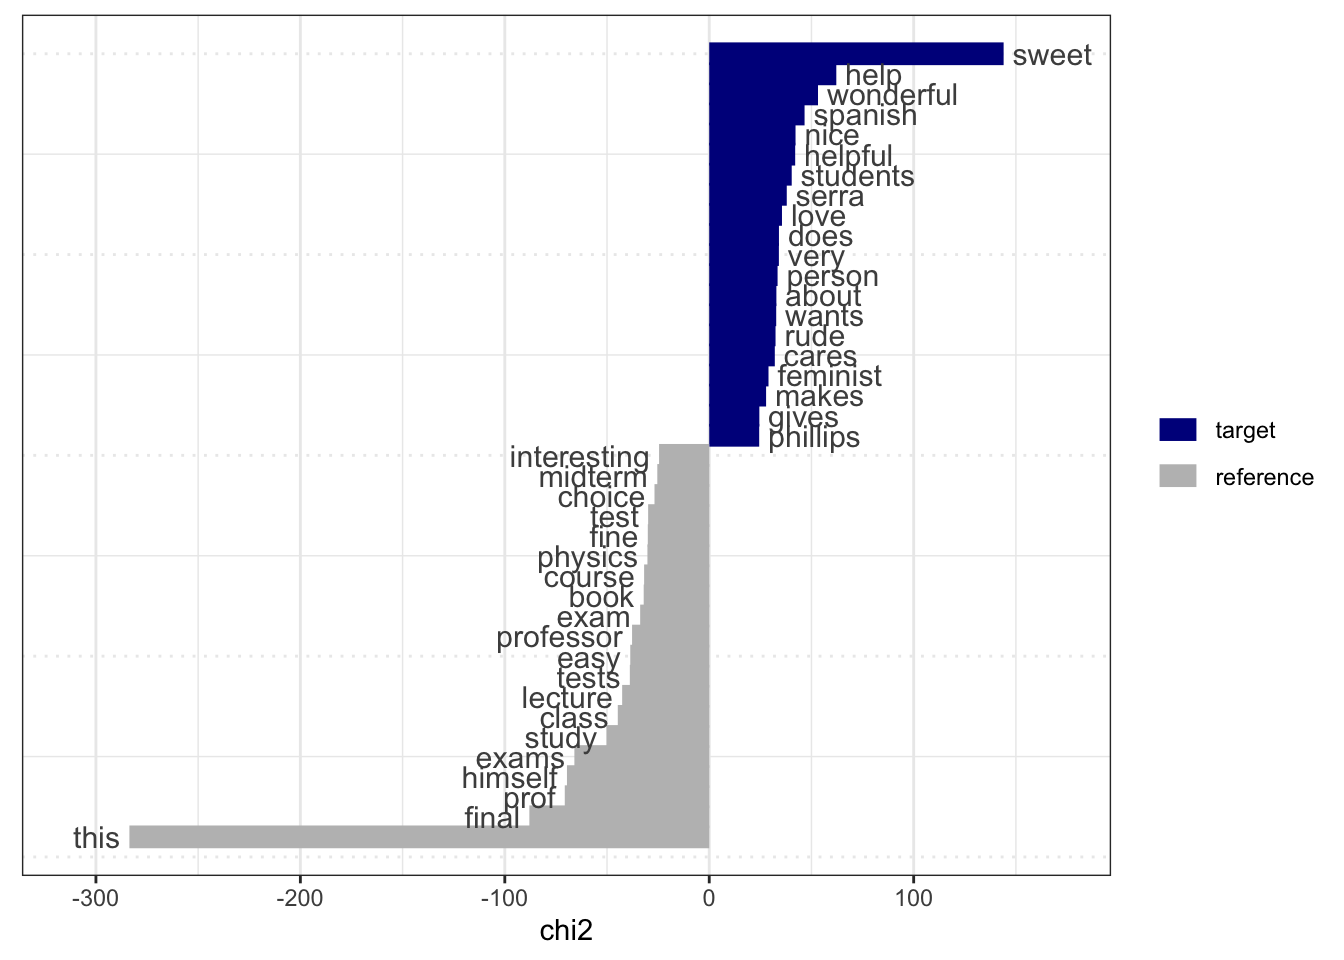
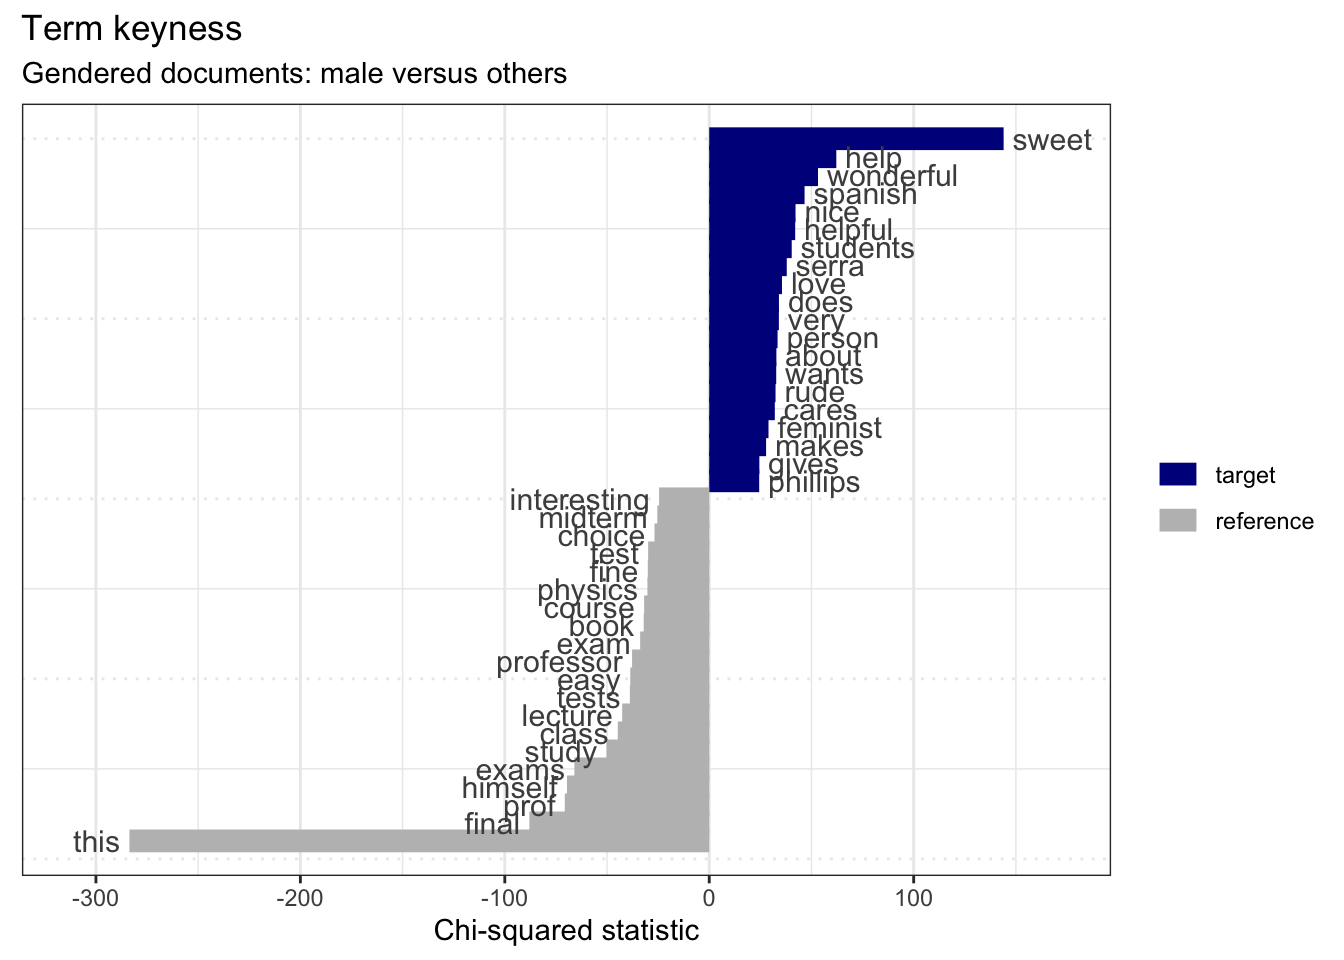
Fixed plotting typo on keyness for gendered-terms

diff --git a/docs/articles/recipe_11.html b/docs/articles/recipe_11.html
@@ -650,27 +650,14 @@ Figure 4: Relationship between course rating and gender.
 <span class="va">keyness_target_male</span> <span class="op"><a href="../reference/%&gt;%.html">%&gt;%</a></span> 
   <span class="fu"><a href="https://dplyr.tidyverse.org/reference/filter.html">filter</a></span><span class="op">(</span><span class="op">!</span><span class="va">feature</span> <span class="op"><a href="https://rdrr.io/r/base/match.html">%in%</a></span> <span class="va">male</span><span class="op">)</span> <span class="op"><a href="../reference/%&gt;%.html">%&gt;%</a></span> <span class="co"># remove male-gendered terms</span>
   <span class="fu"><a href="https://dplyr.tidyverse.org/reference/filter.html">filter</a></span><span class="op">(</span><span class="fu"><a href="https://rdrr.io/r/base/nchar.html">nchar</a></span><span class="op">(</span><span class="va">feature</span><span class="op">)</span> <span class="op">&gt;</span> <span class="fl">3</span><span class="op">)</span> <span class="op"><a href="../reference/%&gt;%.html">%&gt;%</a></span> <span class="co"># remove short terms (&lt; 3 characters)</span>
-  <span class="fu"><a href="https://rdrr.io/pkg/quanteda.textplots/man/textplot_keyness.html">textplot_keyness</a></span><span class="op">(</span><span class="op">)</span> <span class="op"><a href="../reference/%&gt;%.html">%&gt;%</a></span>  <span class="co"># plot the indicative features.</span>
+  <span class="fu"><a href="https://rdrr.io/pkg/quanteda.textplots/man/textplot_keyness.html">textplot_keyness</a></span><span class="op">(</span><span class="op">)</span> <span class="op">+</span>  <span class="co"># plot the indicative features.</span>
   <span class="fu"><a href="https://ggplot2.tidyverse.org/reference/labs.html">labs</a></span><span class="op">(</span>x <span class="op">=</span> <span class="st">"Chi-squared statistic"</span>,
       title <span class="op">=</span> <span class="st">"Term keyness"</span>, 
        subtitle <span class="op">=</span> <span class="st">"Gendered documents: male versus others"</span><span class="op">)</span> <span class="co"># labels</span></code></pre></div>
-<pre><code>## [[1]]</code></pre>
-<p><img src="recipe_11_files/figure-html/rmp-keyness-male-1.png" width="85%" style="display: block; margin: auto;"></p>
-<pre><code>## 
-## $x
-## [1] "Chi-squared statistic"
-## 
-## $title
-## [1] "Term keyness"
-## 
-## $subtitle
-## [1] "Gendered documents: male versus others"
-## 
-## attr(,"class")
-## [1] "labels"</code></pre>
-<p>Here we see that male gendered documents have a series of indicative features that are particularly telling: ‘funny,’ ‘jokes,’ ‘hilarious,’ ‘cool,’ ‘smart,’ ‘nice,’ and ‘cares.’ The bulk of these point to documents with male-oriented gender terms as also noting the jovial personality of the instructor. There’s not much we can make out of the ‘reference’ terms as they are a mixed-gendered bag of female-gendered terms and documents with no gendered terms.</p>
+<p><img src="recipe_11_files/figure-html/rmp-keyness-male-1.png" width="85%" style="display: block; margin: auto;">
+Here we see that male gendered documents have a series of indicative features that are particularly telling: ‘funny,’ ‘jokes,’ ‘hilarious,’ ‘cool,’ ‘smart,’ ‘nice,’ and ‘cares.’ The bulk of these point to documents with male-oriented gender terms as also noting the jovial personality of the instructor. There’s not much we can make out of the ‘reference’ terms as they are a mixed-gendered bag of female-gendered terms and documents with no gendered terms.</p>
 <p>Let’s now run the same analysis, but this time on female-gendered terms.</p>
-<div class="sourceCode" id="cb36"><pre class="downlit sourceCode r">
+<div class="sourceCode" id="cb34"><pre class="downlit sourceCode r">
 <code class="sourceCode R"><span class="va">rmp_tokens_female_reference</span> <span class="op">&lt;-</span> 
   <span class="va">rmp_tokens</span> <span class="op"><a href="../reference/%&gt;%.html">%&gt;%</a></span> 
   <span class="fu"><a href="https://quanteda.io/reference/tokens_select.html">tokens_remove</a></span><span class="op">(</span>pattern <span class="op">=</span> <span class="va">female</span>, window <span class="op">=</span> <span class="fl">10</span><span class="op">)</span> <span class="op"><a href="../reference/%&gt;%.html">%&gt;%</a></span>  <span class="co"># remove female-gendered terms</span>
@@ -689,25 +676,12 @@ Figure 4: Relationship between course rating and gender.
 <span class="va">keyness_target_female</span> <span class="op"><a href="../reference/%&gt;%.html">%&gt;%</a></span> 
   <span class="fu"><a href="https://dplyr.tidyverse.org/reference/filter.html">filter</a></span><span class="op">(</span><span class="op">!</span><span class="va">feature</span> <span class="op"><a href="https://rdrr.io/r/base/match.html">%in%</a></span> <span class="va">female</span><span class="op">)</span> <span class="op"><a href="../reference/%&gt;%.html">%&gt;%</a></span> <span class="co"># remove female-gendered terms</span>
   <span class="fu"><a href="https://dplyr.tidyverse.org/reference/filter.html">filter</a></span><span class="op">(</span><span class="fu"><a href="https://rdrr.io/r/base/nchar.html">nchar</a></span><span class="op">(</span><span class="va">feature</span><span class="op">)</span> <span class="op">&gt;</span> <span class="fl">3</span><span class="op">)</span> <span class="op"><a href="../reference/%&gt;%.html">%&gt;%</a></span> <span class="co"># remove short terms (&lt; 3 characters)</span>
-  <span class="fu"><a href="https://rdrr.io/pkg/quanteda.textplots/man/textplot_keyness.html">textplot_keyness</a></span><span class="op">(</span><span class="op">)</span> <span class="op"><a href="../reference/%&gt;%.html">%&gt;%</a></span> <span class="co"># plot the indicative features.</span>
+  <span class="fu"><a href="https://rdrr.io/pkg/quanteda.textplots/man/textplot_keyness.html">textplot_keyness</a></span><span class="op">(</span><span class="op">)</span> <span class="op">+</span> <span class="co"># plot the indicative features.</span>
   <span class="fu"><a href="https://ggplot2.tidyverse.org/reference/labs.html">labs</a></span><span class="op">(</span>x <span class="op">=</span> <span class="st">"Chi-squared statistic"</span>,
       title <span class="op">=</span> <span class="st">"Term keyness"</span>, 
        subtitle <span class="op">=</span> <span class="st">"Gendered documents: male versus others"</span><span class="op">)</span> <span class="co"># labels</span></code></pre></div>
-<pre><code>## [[1]]</code></pre>
-<p><img src="recipe_11_files/figure-html/rmp-keyness-female-1.png" width="85%" style="display: block; margin: auto;"></p>
-<pre><code>## 
-## $x
-## [1] "Chi-squared statistic"
-## 
-## $title
-## [1] "Term keyness"
-## 
-## $subtitle
-## [1] "Gendered documents: male versus others"
-## 
-## attr(,"class")
-## [1] "labels"</code></pre>
-<p>In the indicative terms for female-gendered documents we see a bit more of a mixed bag. We have potentially two groups of interest: positive traits such as ‘sweet,’ ‘wonderful,’ ‘nice,’ ‘helpful,’ etc. and negative traits such as ‘rude’ and ‘feminist’ (I’m assuming this term is negative in this context).</p>
+<p><img src="recipe_11_files/figure-html/rmp-keyness-female-1.png" width="85%" style="display: block; margin: auto;">
+In the indicative terms for female-gendered documents we see a bit more of a mixed bag. We have potentially two groups of interest: positive traits such as ‘sweet,’ ‘wonderful,’ ‘nice,’ ‘helpful,’ etc. and negative traits such as ‘rude’ and ‘feminist’ (I’m assuming this term is negative in this context).</p>
 </div>
 <div id="sentiment-analysis" class="section level4">
 <h4 class="hasAnchor">
@@ -715,7 +689,7 @@ Figure 4: Relationship between course rating and gender.
 <p>The findings from these two keyness analysis for gendered terms makes me wonder if there are differences in the sentiment of the comments and how these sentiments may or may not relate to the course rating.</p>
 <p>Let’s perform a simple dictionary approach to sentiment analysis on this dataset. First we need to get a sentiment lexicon. I’ve chosen to use the NRC Word-Emotion Association Lexicon <span class="citation">(<a href="#ref-Mohammad2013" role="doc-biblioref">Mohammad and Turney 2013</a>)</span> which can be loaed from the textdata package <span class="citation">(<a href="#ref-R-textdata" role="doc-biblioref">Hvitfeldt 2020</a>)</span>. This lexicon contains 13,875 words classified for “positive,” “joy,” “trust,” “anticipation,” “surprise,” “negative,” “anger,” “fear,” “disgust,” and “sadness.”</p>
 <p>Once we have the sentiment lexicon in quanteda dictionary format, we then use the <code><a href="https://quanteda.io/reference/tokens_lookup.html">tokens_lookup()</a></code> function to label a tokens object with sentiment for those words that appear in both the tokens and dictionary objects. We do this for both the <code>rmp_tokens_male</code> and <code>rmp_tokens_female</code> tokens objects. Then I convert both to dfm objects, generate frequency measures (where the sentiments are the features), then create a barplot contrasting the course ratings. There is a lot going on in the code to generate the plots. You can refer to the <a href="https://ggplot2.tidyverse.org/index.html">ggplot2 documentation</a> for more information.</p>
-<div class="sourceCode" id="cb39"><pre class="downlit sourceCode r">
+<div class="sourceCode" id="cb35"><pre class="downlit sourceCode r">
 <code class="sourceCode R"><span class="va">sentiment_dictionary</span> <span class="op">&lt;-</span> 
   <span class="fu">textdata</span><span class="fu">::</span><span class="fu"><a href="https://rdrr.io/pkg/textdata/man/lexicon_nrc.html">lexicon_nrc</a></span><span class="op">(</span><span class="op">)</span> <span class="op"><a href="../reference/%&gt;%.html">%&gt;%</a></span> <span class="co"># load the nrc lexicon</span>
   <span class="fu"><a href="https://quanteda.io/reference/as.dictionary.html">as.dictionary</a></span><span class="op">(</span><span class="op">)</span> <span class="co"># convert the data frame to a dictionary object</span>
